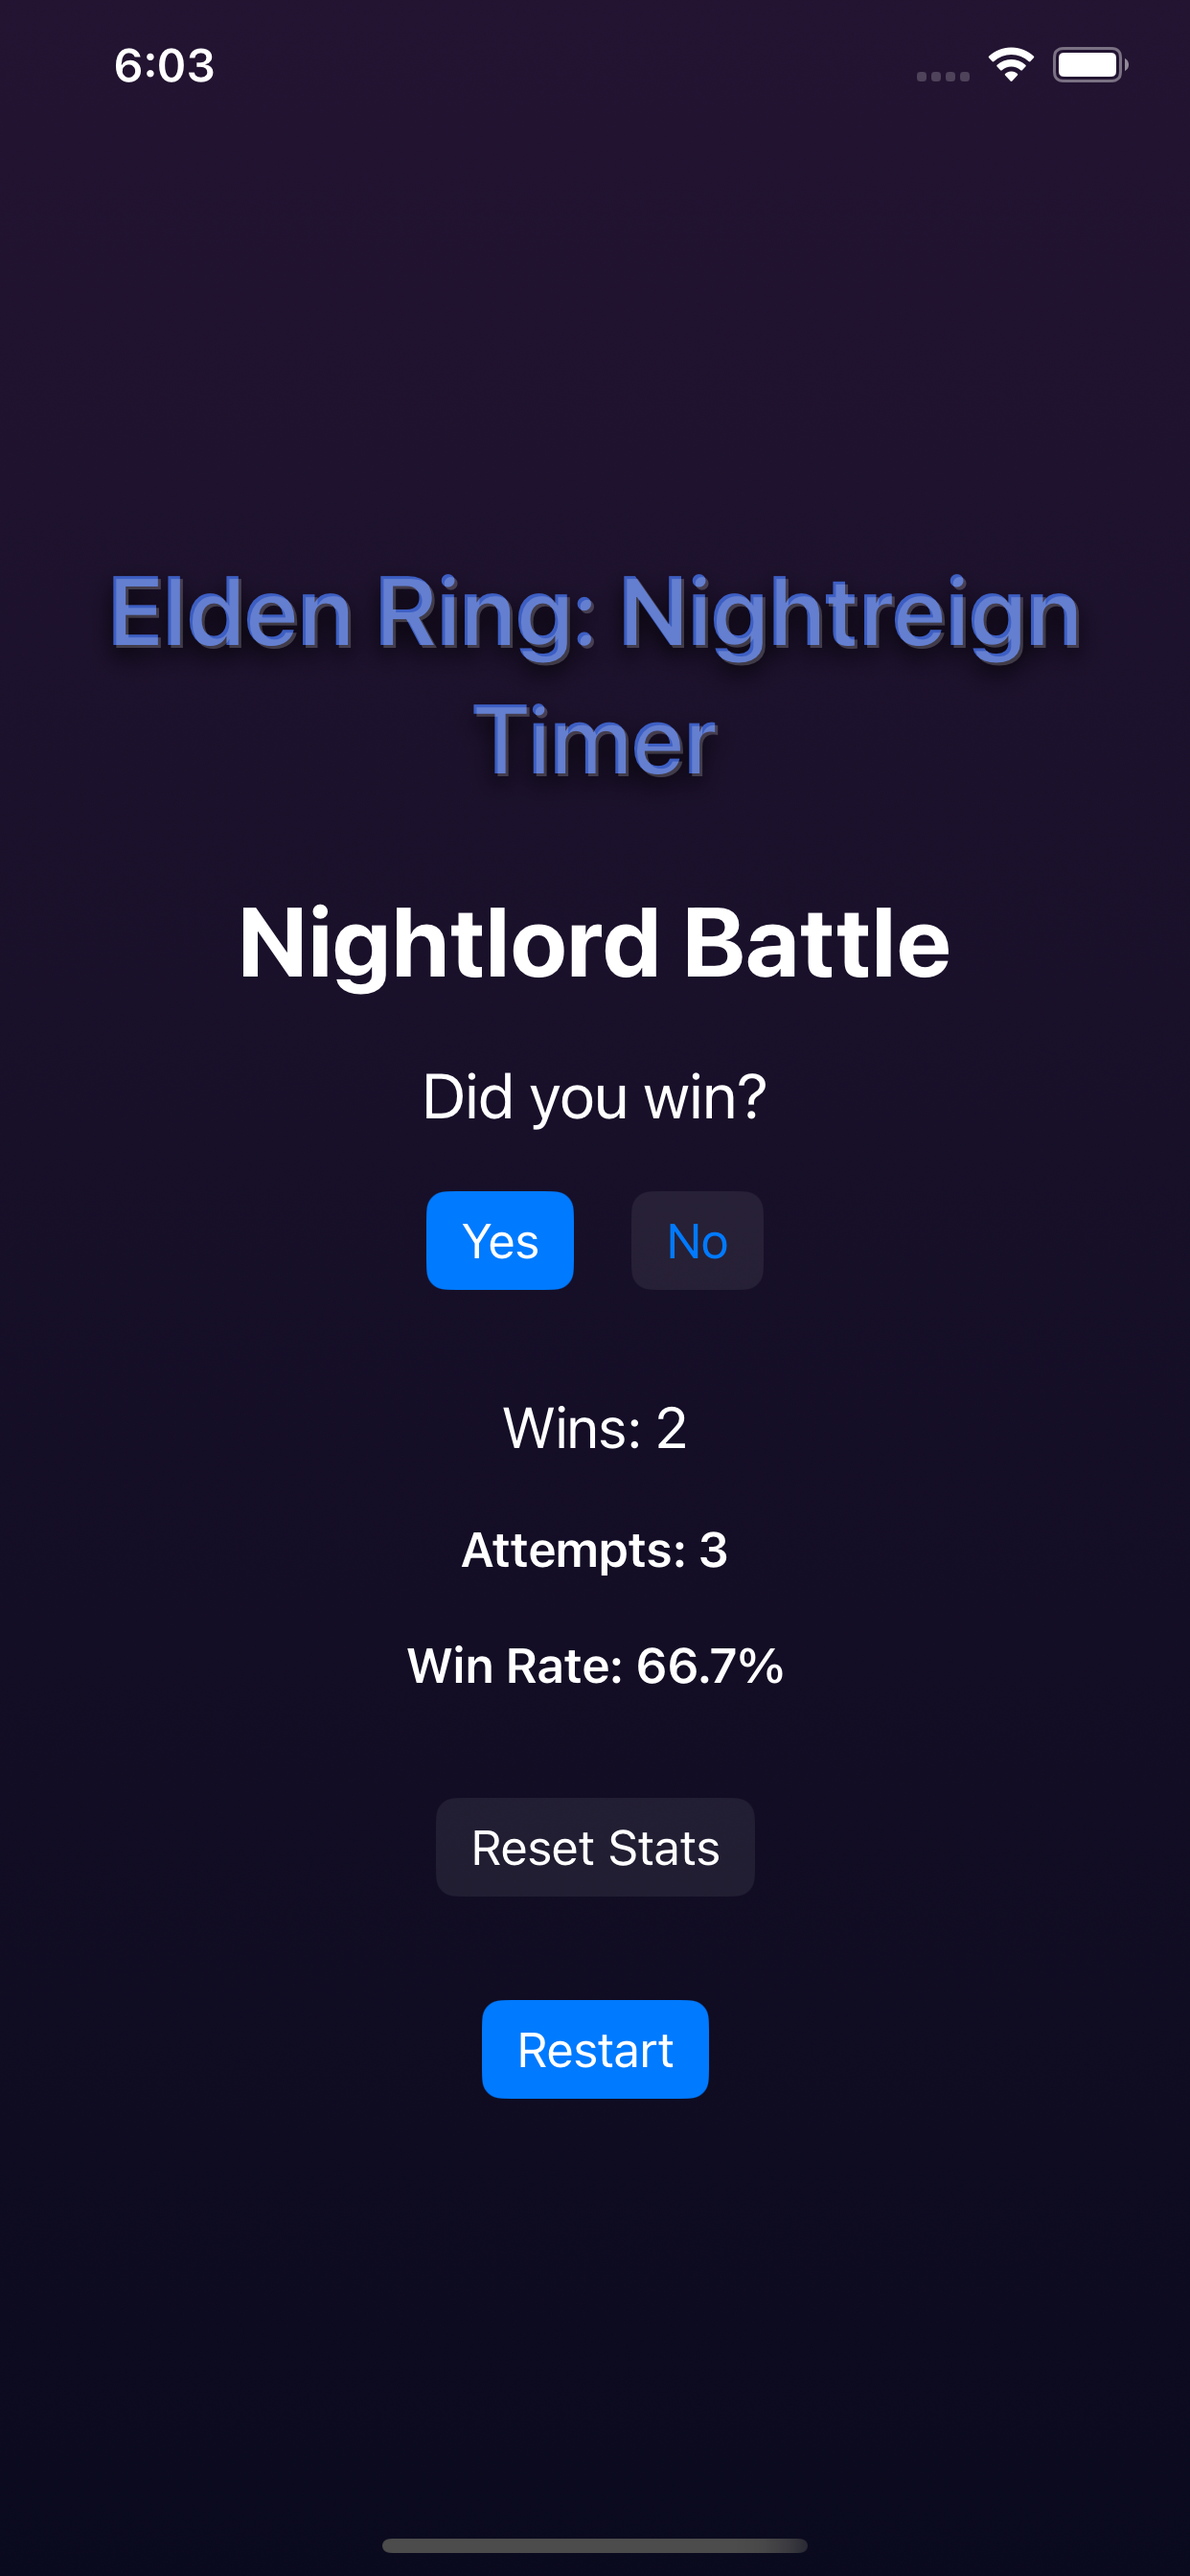
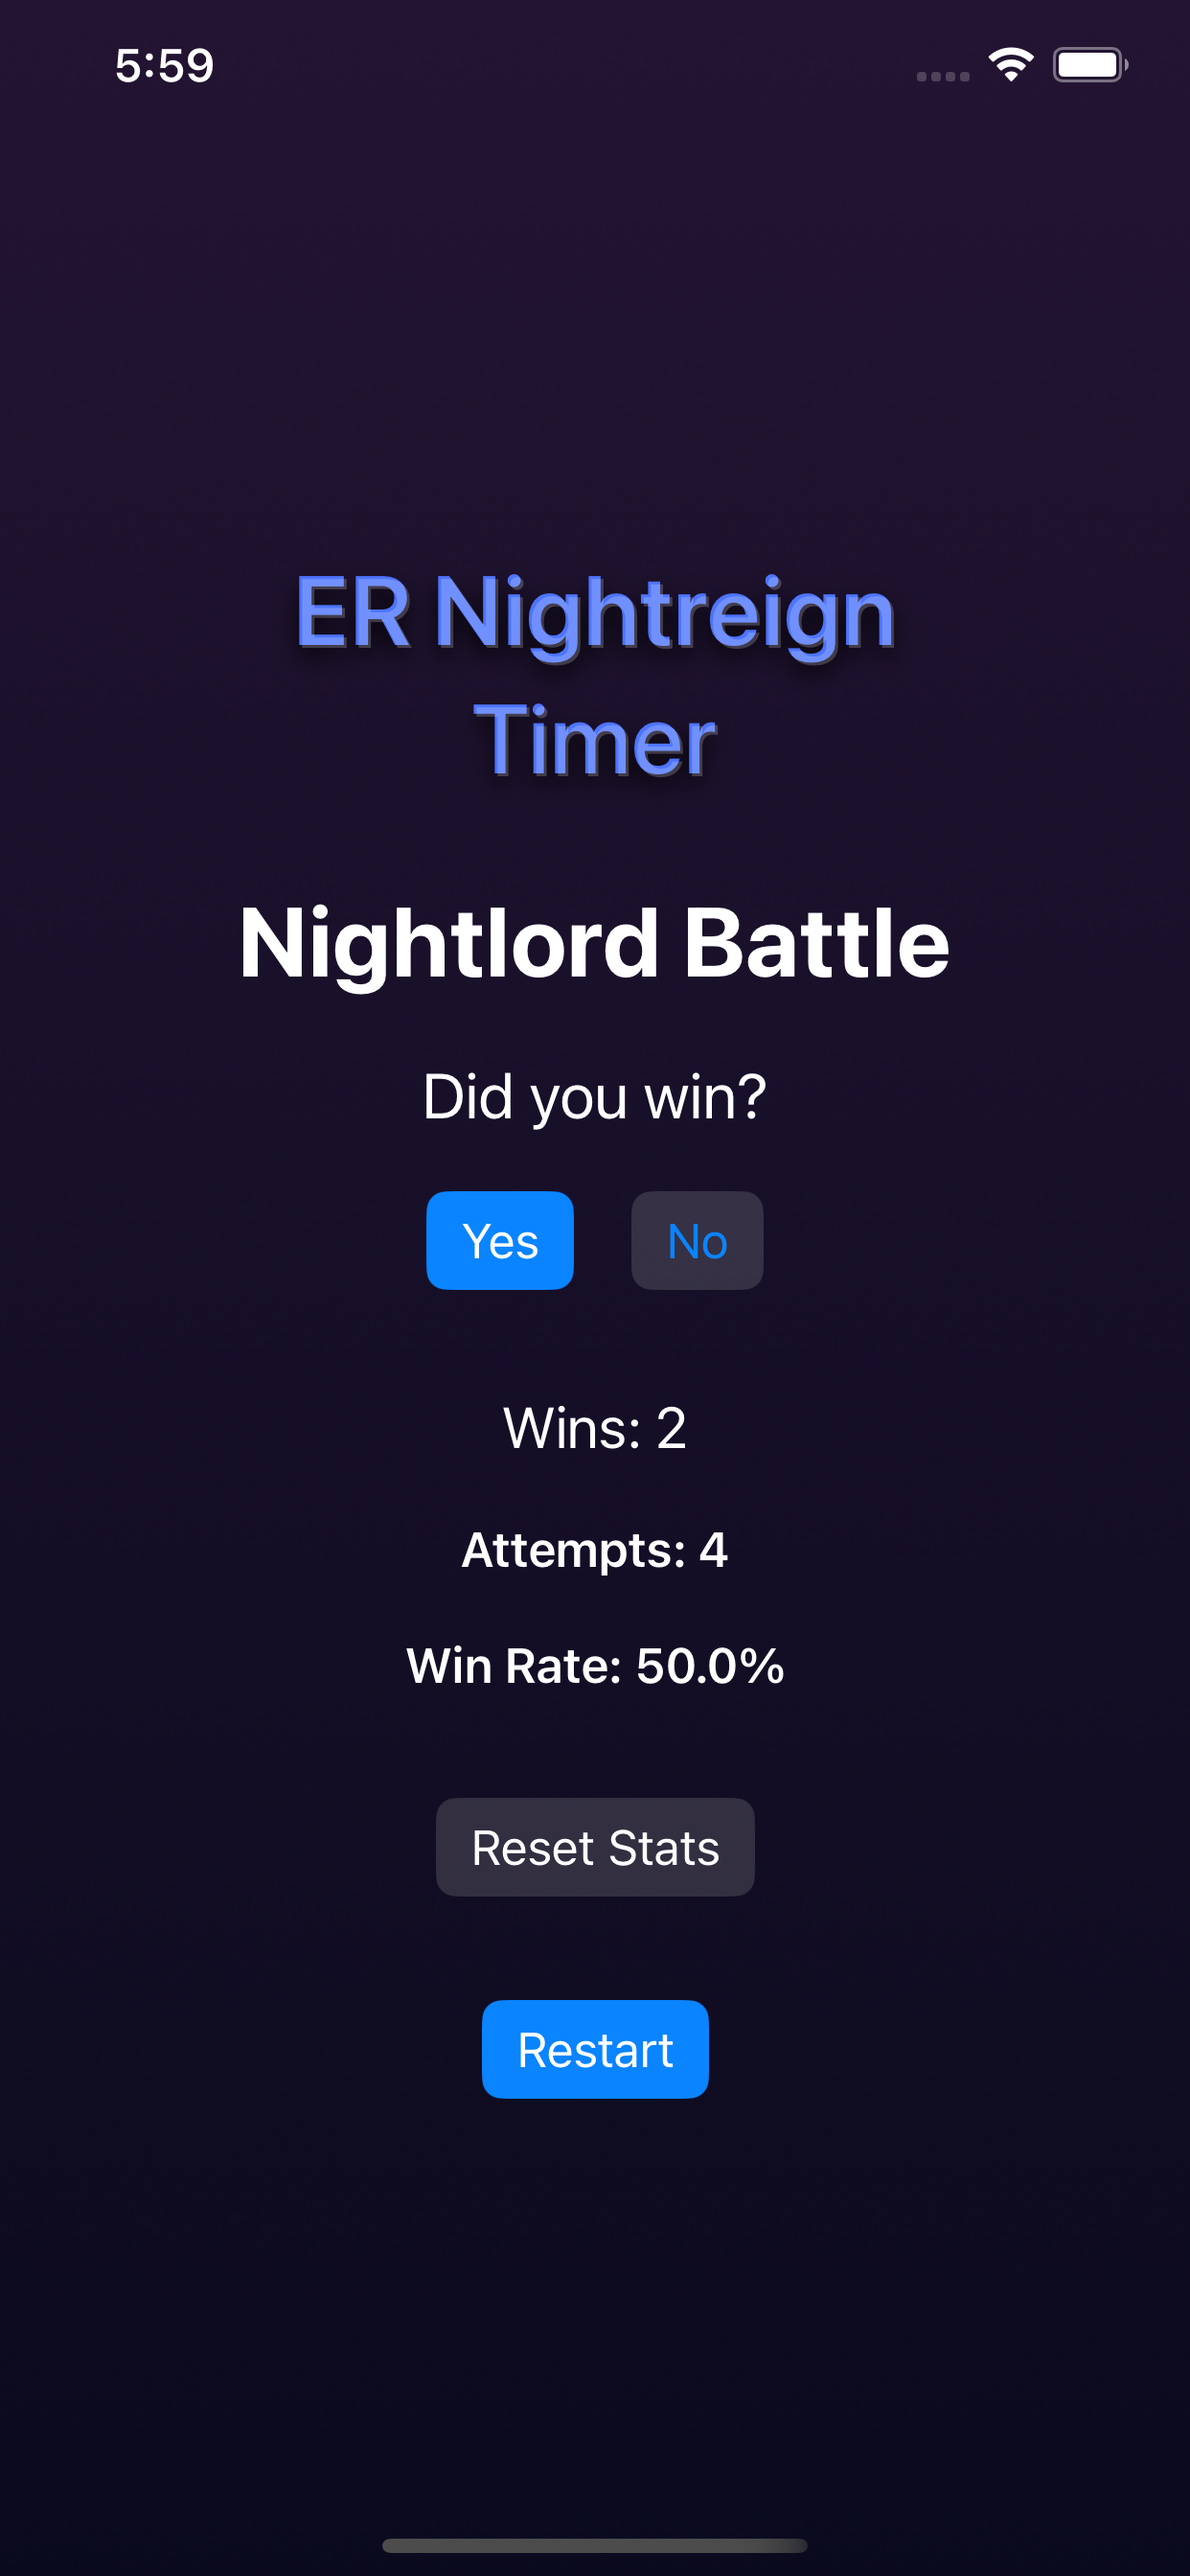
update titling

Changed region(s): [[0.0918, 0.2188, 0.9179, 0.3125], [0.5507, 0.5938, 0.6425, 0.6562], [0.1224, 0.0, 0.1836, 0.0312]]

diff --git a/NightreignTimer/ContentView.swift b/NightreignTimer/ContentView.swift
@@ -44,13 +44,13 @@ struct ContentView: View {
             .ignoresSafeArea()
             VStack(spacing: 30) {
                 VStack(spacing: 4) {
-                    Text("Elden Ring: Nightreign")
+                    Text("ER Nightreign")
                         .font(.largeTitle)
                         .fontWeight(.semibold)
                         .foregroundStyle(Color("EldenBlue"))
                         .shadow(color: .black.opacity(0.9), radius: 4, x: 0, y: 4)
                         .overlay(
-                            Text("Elden Ring: Nightreign")
+                            Text("ER Nightreign")
                                 .font(.largeTitle)
                                 .fontWeight(.semibold)
                                 .foregroundColor(.white.opacity(0.2))
